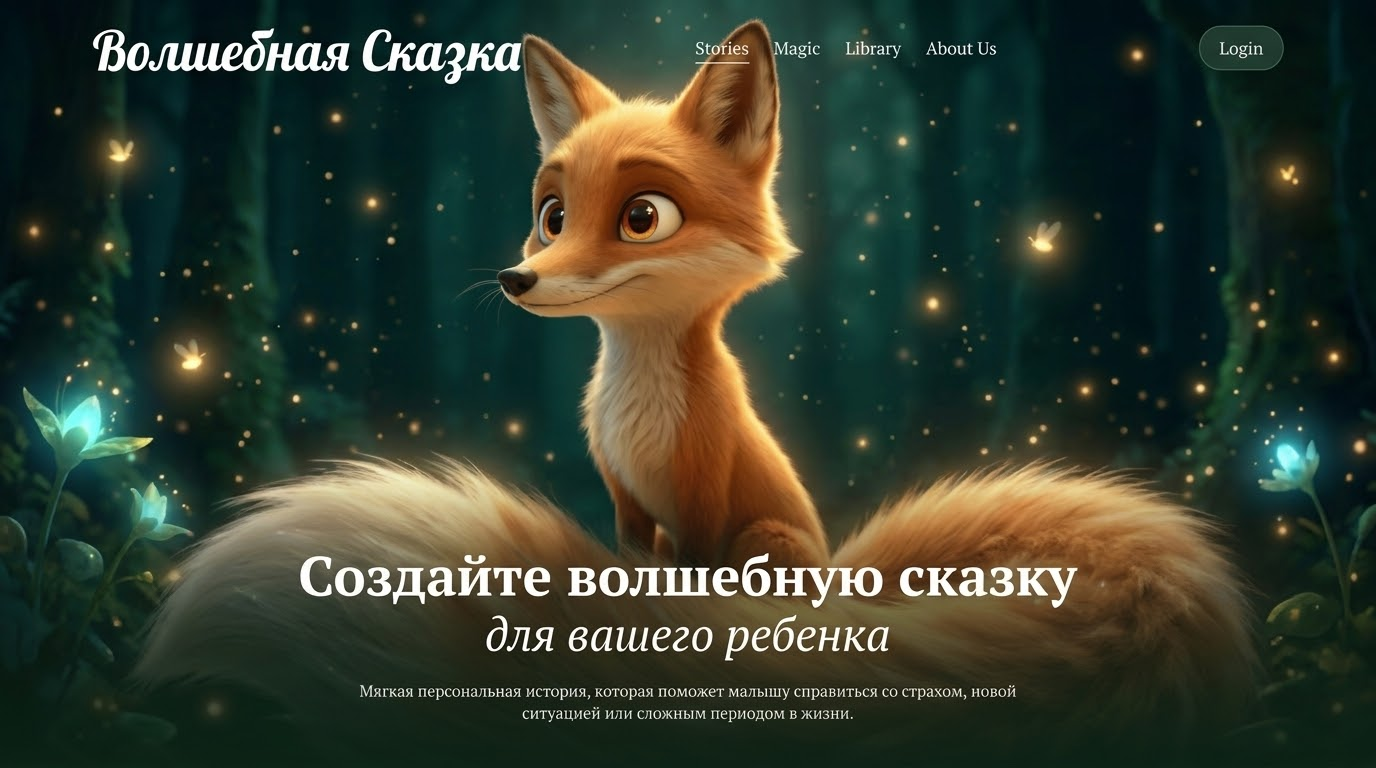
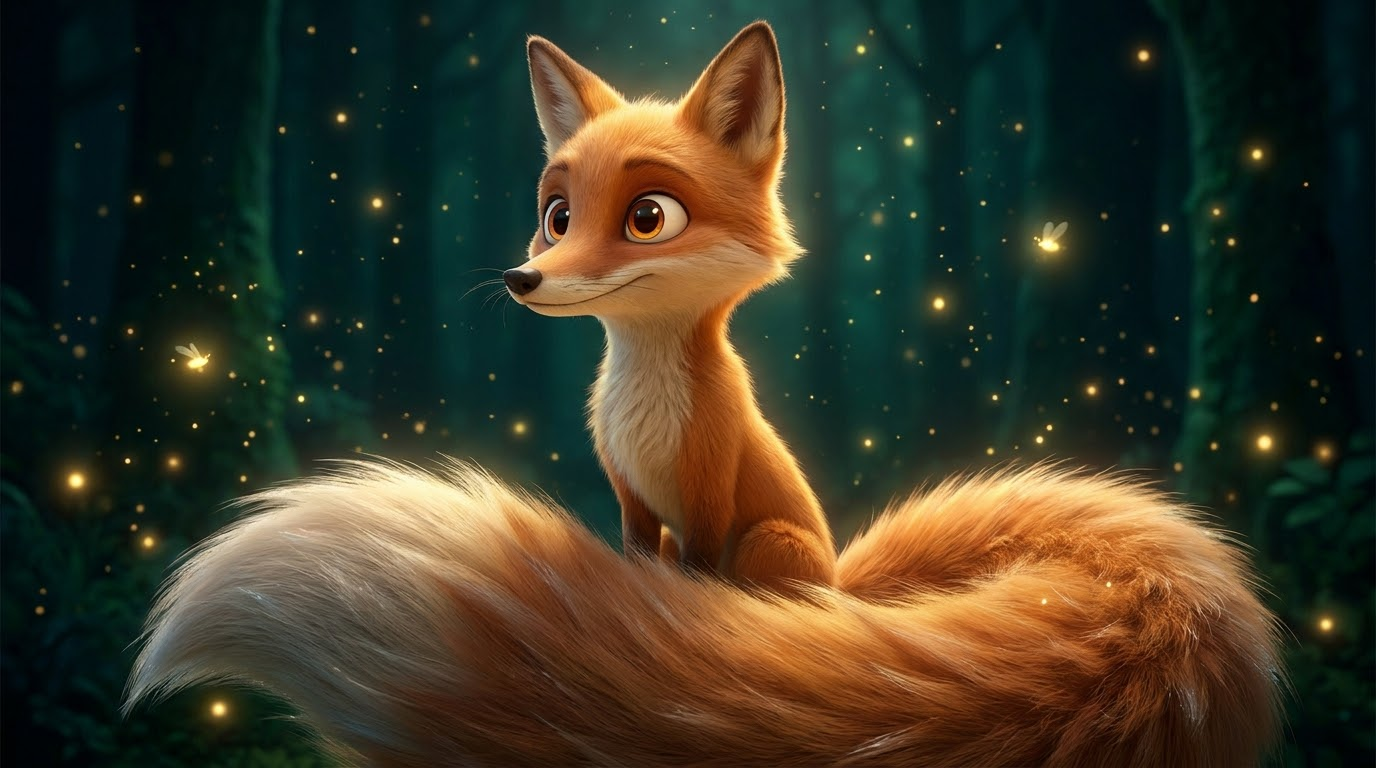
auto-sync 2026-05-16 07:01

diff --git a/app/page.tsx b/app/page.tsx
@@ -385,17 +385,11 @@ function CreateForm({onGenerate,isLoading}:{onGenerate:(f:FormData)=>Promise<voi
           Dark forest, fox image, text at bottom 30%
       ══════════════════════════════════════════════════════ */}
       <section className="relative h-screen w-full overflow-hidden" style={{background:'#0d2b1e'}}>
-        {/* Responsive hero image: portrait on mobile, landscape on desktop */}
-        {/* eslint-disable-next-line @next/next/no-img-element */}
-        <img src="/hero-mobile.jpg" alt="Волшебный лес с лисёнком"
-          className="md:hidden absolute inset-0 w-full h-full object-cover object-center" />
         {/* eslint-disable-next-line @next/next/no-img-element */}
         <img src="/hero-desktop.jpg" alt="Волшебный лес с лисёнком"
-          className="hidden md:block absolute inset-0 w-full h-full object-cover object-top" />
-        {/* Top gradient — solid dark at top, fully hides Stitch nav logo */}
-        <div className="absolute top-0 left-0 right-0 pointer-events-none" style={{height:'18%',background:'linear-gradient(to bottom, rgba(10,31,20,1) 0%, rgba(10,31,20,0.85) 55%, transparent 100%)'}}/>
-        {/* Bottom gradient — reaches solid before Stitch title starts (~62% from top) */}
-        <div className="absolute bottom-0 left-0 right-0 pointer-events-none" style={{height:'65%',background:'linear-gradient(to bottom, transparent 0%, rgba(10,31,20,0.8) 30%, rgba(10,31,20,1) 42%, rgba(10,31,20,1) 100%)'}}/>
+          className="absolute inset-0 w-full h-full object-cover object-top md:object-center" />
+        {/* Bottom gradient — covers lower portion for text readability */}
+        <div className="absolute bottom-0 left-0 right-0 h-[65%] bg-gradient-to-b from-transparent via-[rgba(10,31,20,0.6)] to-[rgba(10,31,20,0.98)] pointer-events-none"/>
         {/* Text block — anchored to bottom */}
         <div className="absolute bottom-0 left-0 right-0 z-10 flex flex-col items-center text-center px-6 md:px-12 pb-20 md:pb-10">
           <p className="hidden md:block text-white/55 text-[11px] font-semibold tracking-[0.15em] uppercase mb-3">✦ Терапевтические сказки для детей ✦</p>
